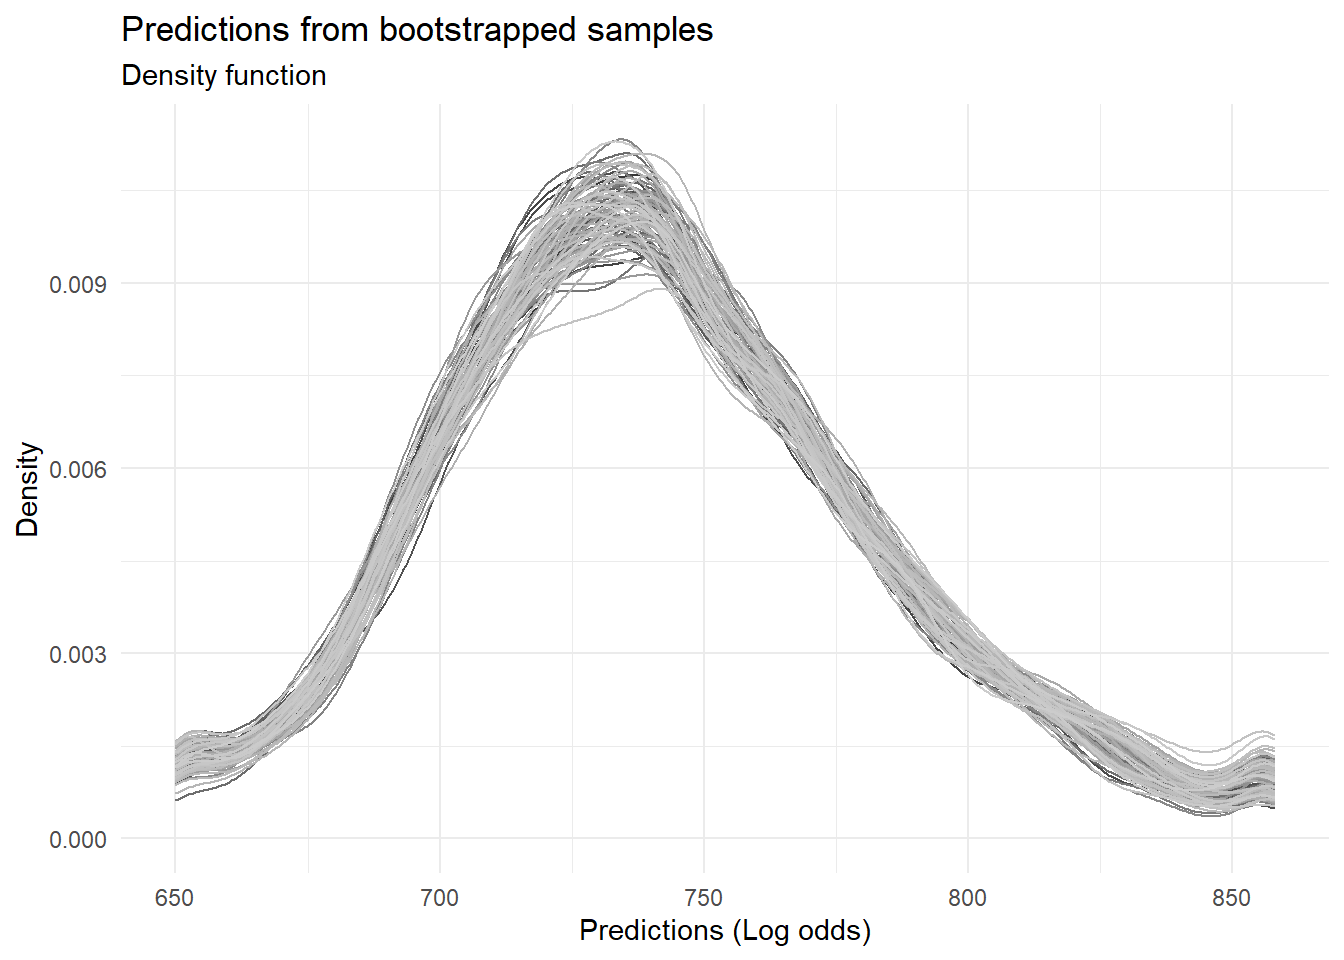
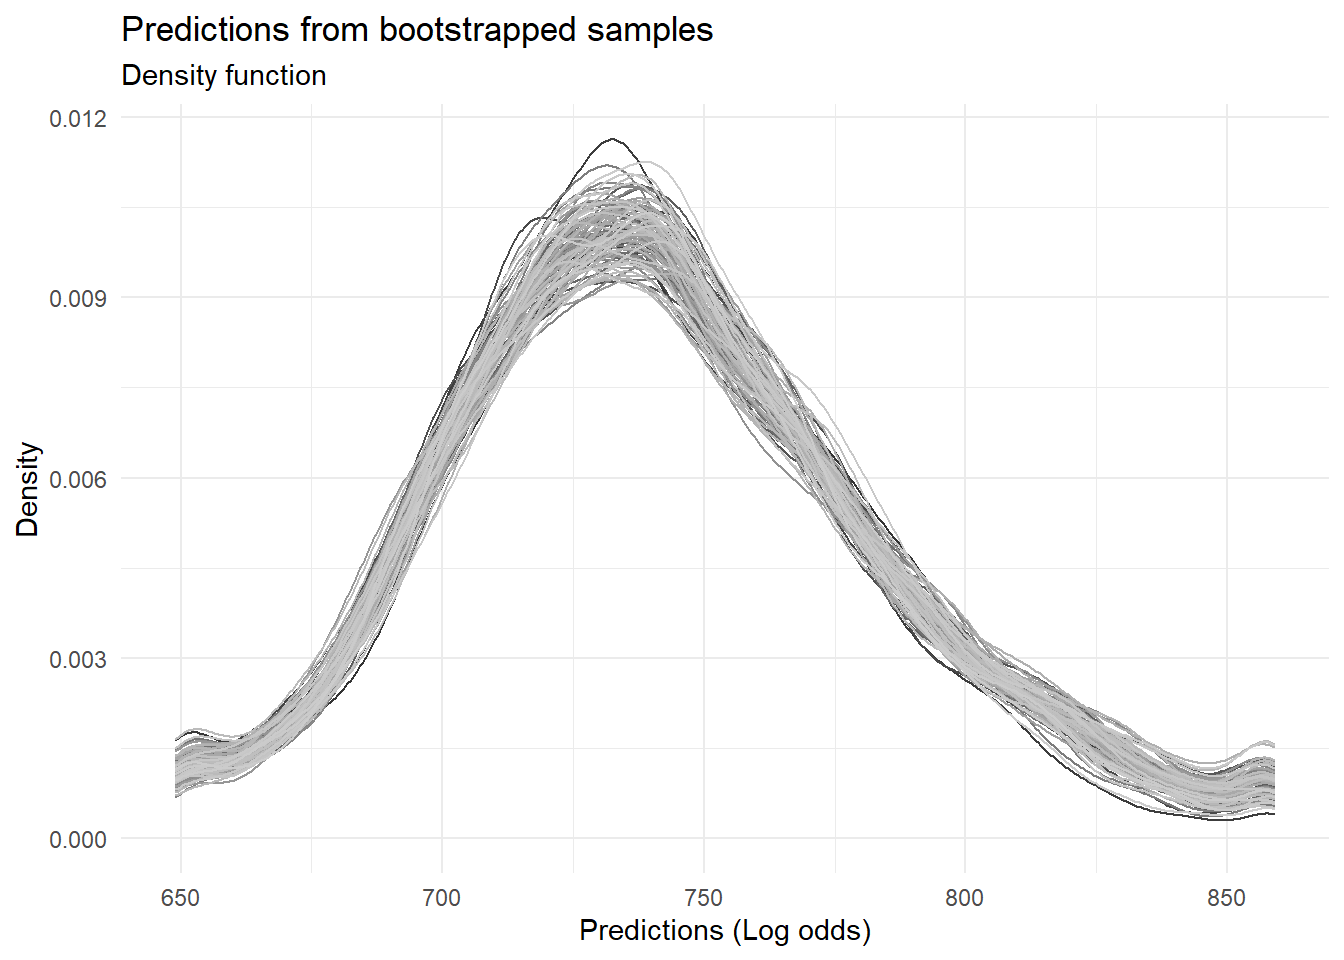
Publish next post

diff --git a/content/post/assessing_score_reliability/index.md b/content/post/assessing_score_reliability/index.md
@@ -1,5 +1,5 @@
 ---
-title: "Assessing variability in predictions using bootstrapped sampling"
+title: "Using bootstrapped sampling to assess variability in score predictions "
 subtitle: "Credit risk series (Post #3)"
 summary: "How to assess reliability of a credit scoring model using bootstrapped sampling"
 author: "royr2"
@@ -11,7 +11,7 @@ comments: true
 
 
 
-When building risk scorecards, apart from the variety of performance metrics, analysts also assess something known as  `risk-ranking` i.e. whether or not the observed event rates increase (or decrease) monotonically with increasing (or decreasing) scores. Sometimes, models are not able to risk-rank borrowers in the tails (regions of very high or very low scores). While this is expected, it would be nice if we could quantify this effect and one way to do this would be to use bootstrapped samples to assess variability in model predictions. 
+When building risk scorecards, apart from the variety of performance metrics, analysts also assess something known as  `risk-ranking` i.e. whether or not the observed event rates increase (or decrease) monotonically with increasing (or decreasing) scores. Sometimes, models are not able to risk-rank borrowers in the tails (regions of very high or very low scores). While this is expected, it would be nice if we could quantify this effect. One way to do this would be to use bootstrapped samples to assess variability in model predictions. 
 
 ## Basic idea
 The underlying idea is very simple - less available data for estimation equates to lower quality of estimation. As a simple example, we can observe this effect when trying to estimate quantiles of a probability distribution. 
@@ -50,11 +50,11 @@ sample_99_quantile <- apply(samples, 1, quantile, p = 0.99)
 
 ```r
 sd(sample_means)/mean(sample_means)
-## [1] 0.01004958
+## [1] 0.01037065
 sd(sample_75_quantile)/mean(sample_75_quantile)
-## [1] 0.01257408
+## [1] 0.01286825
 sd(sample_95_quantile)/mean(sample_75_quantile)
-## [1] 0.01908979
+## [1] 0.01863516
 ```
 
 
@@ -139,16 +139,16 @@ head(boot_sample, 3)
 ## # A tibble: 3 x 2
 ##   splits               id          
 ##   <list>               <chr>       
-## 1 <split [10000/3673]> Bootstrap001
-## 2 <split [10000/3659]> Bootstrap002
-## 3 <split [10000/3711]> Bootstrap003
+## 1 <split [10000/3707]> Bootstrap001
+## 2 <split [10000/3672]> Bootstrap002
+## 3 <split [10000/3693]> Bootstrap003
 ```
 
 
 ```r
 boot_sample$splits[[1]]
 ## <Analysis/Assess/Total>
-## <10000/3673/10000>
+## <10000/3707/10000>
 ```
 
 Each row represents a separate bootstrapped sample whereas within each sample, there are two sub-samples namely an `analysis set` and an `assessment set`. To retrieve a bootstrapped sample as a `data.frame`, the package provides two helper functions -  `analysis()` and `assessment()`
@@ -158,11 +158,11 @@ Each row represents a separate bootstrapped sample whereas within each sample, t
 # Show the first 5 rows and 5 columns of the first sample
 analysis(boot_sample$splits[[1]]) %>% .[1:5, 1:5]
 ##         V1        id member_id loan_amnt funded_amnt
-## 8187 11625 124888250        -1      6025        6025
-## 9570 71335  43479717        -1      5400        5400
-## 8876 15514    724509        -1     10200       10200
-## 1855 95785  95275253        -1      8000        8000
-## 7685  7428  33991869        -1     12000       12000
+## 5256 19892  12655541        -1      6000        6000
+## 5177 24764 128929872        -1     25000       25000
+## 9891 28499  65843284        -1     35000       35000
+## 2897 22006 129404959        -1      5000        5000
+## 7101 81089  92768503        -1     20000       20000
 ```
 
 The [getting started](https://rsample.tidymodels.org/articles/rsample.html) page of the `rsample` package has additional information.
@@ -199,7 +199,7 @@ pred <- glm_model(train)
 
 # Check output
 range(pred)  # Output is on log odds scale
-## [1] -7.536032  1.738245
+## [1] -28.006863   1.384457
 ```
 ## Fitting the model repeatedly
 Now we need to fit the model repeatedly on each of the bootstrapped samples and store the fitted values. And since we are using `R`, for-loops are not allowed :laughing:
@@ -218,7 +218,7 @@ output <- lapply(boot_sample$splits, function(x){
 # Collate all predictions into a vector 
 boot_preds <- do.call(c, output)
 range(boot_preds)
-## [1] -129.630894    4.291622
+## [1] -126.44347    3.51811
 ```
 
 
@@ -236,7 +236,7 @@ boot_preds[boot_preds > q_high] <- q_high
 boot_preds[boot_preds < q_low] <- q_low
 
 range(boot_preds)
-## [1] -5.0393835 -0.2245903
+## [1] -5.0545134 -0.2178373
 ```
 
 ```r
@@ -244,13 +244,13 @@ range(boot_preds)
 boot_preds <- data.frame(pred = boot_preds, 
                          id = rep(1:length(boot_sample$splits), each = nrow(sample)))
 head(boot_preds)
-##         pred id
-## 1 -2.0468697  1
-## 2 -0.9876973  1
-## 3 -1.3107322  1
-## 4 -3.1588607  1
-## 5 -1.8256056  1
-## 6 -2.9387325  1
+##        pred id
+## 1 -2.724139  1
+## 2 -1.747598  1
+## 3 -3.629159  1
+## 4 -2.005192  1
+## 5 -3.006106  1
+## 6 -3.200158  1
 ```
 
 ## Scaling model predictions
@@ -312,7 +312,7 @@ boot_preds %>%
   theme_minimal() + 
   theme(axis.text.x = element_text(angle = 90)) + 
   theme(legend.position = "none") + 
-  labs(title = "Variability in model predictions across score ranges", 
+  labs(title = "Variability in model predictions across samples", 
        subtitle = "(measured using standard deviation)", 
        x = "Score Range", 
        y = "Standard Deviation")
@@ -325,6 +325,6 @@ As expected, the model's predictions are more reliable within a certain range of
 ## Parting notes 
 While the outcome of this experiment is not unexpected, an interesting question could be - should analysts and model users define an **operating range** for their models? In this example, we could set lower and upper limits at `700` and `800` respectively and any borrower receiving a score beyond these thresholds could be assigned a generic value of `700-` or `800+`.
 
-That said, binning (WOE or otherwise) mitigates this to a certain extent since the model cannot generate predictions beyond a certain range of values. 
+That said, binning features mitigates this to a certain extent since the model cannot generate predictions beyond a certain range of values. 
 
 *Thoughts? Comments? Helpful? Not helpful? Like to see anything else added in here? Let me know!*
